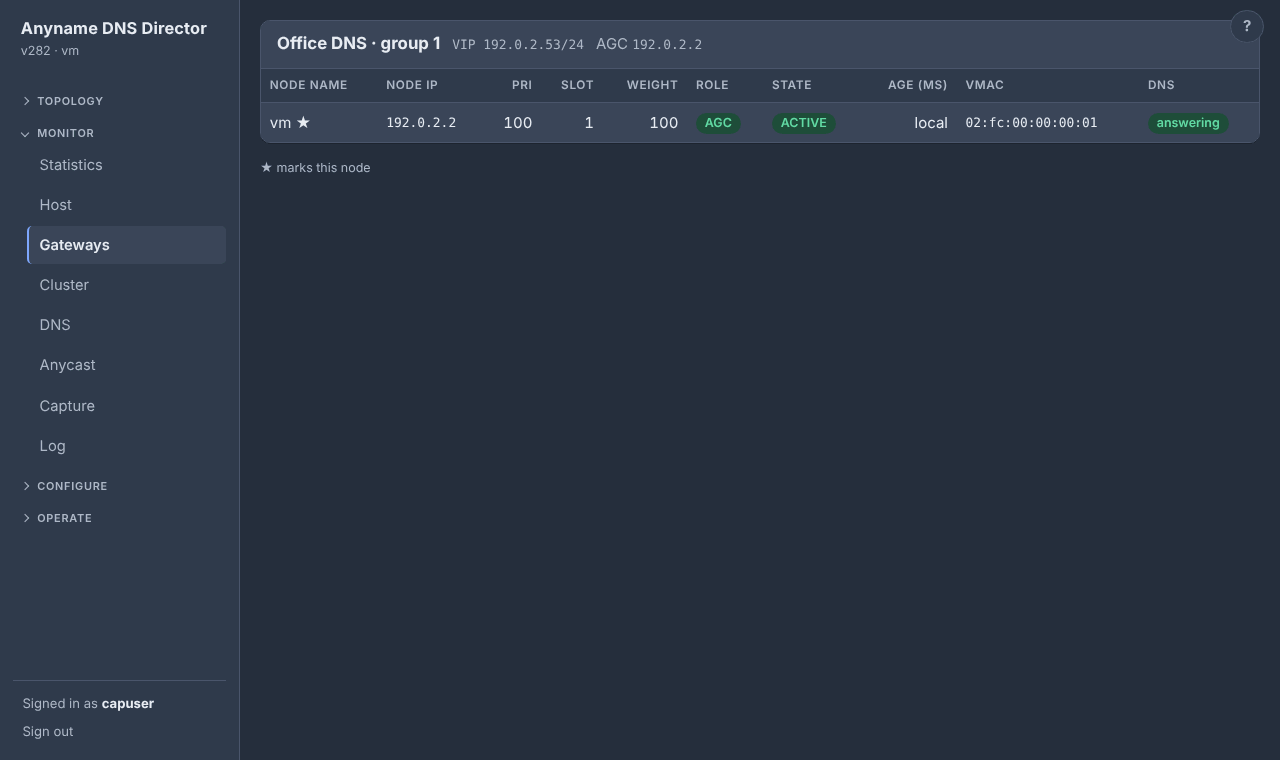
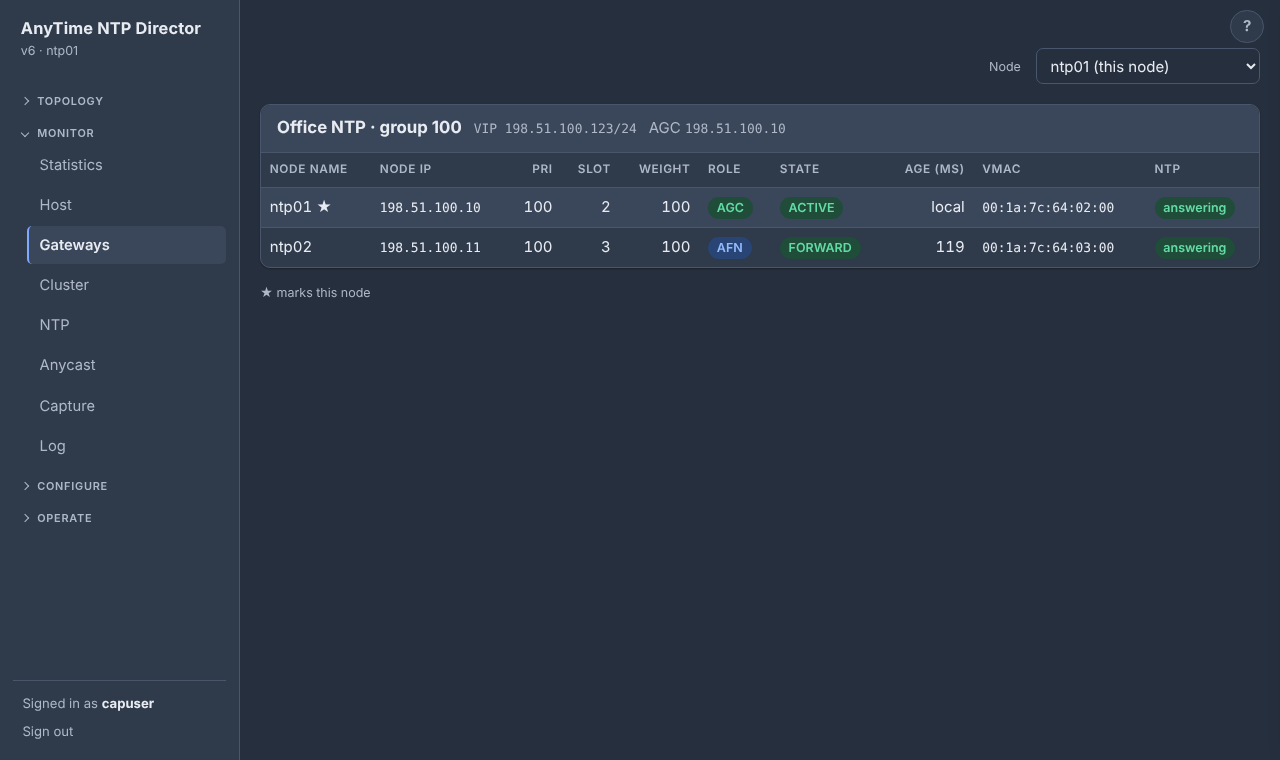
see changelog for release info

diff --git a/source/webui/help.js b/source/webui/help.js
@@ -481,14 +481,14 @@ const NTPDIR_HELP = {
       ["h", "Every node"],
       "Choose **Cluster** in the Node menu. **Capture on all nodes** runs the same capture on every node at the same moment for 5, 10, 30 or 60 seconds, then **Download .tgz** gives one `.pcap` per node (this node's is marked `-this-node`), a `summary.txt`, and an `errors.txt` naming any node that could not capture and why. Each node keeps its newest packets (about 4 MB). This does not touch what anyone has on a node's own Capture page. It is the way to see whether what one node sent is what another received.",
       ["h", "Filter"],
-      "The filter is a small version of the tcpdump language, applied on the node before a packet is kept: `host 10.0.0.5`, `src host`, `dst host`, `net 10.0.0.0/24`, `port 123`, `src port`, `dst port`, `portrange 50-60`, `tcp`, `udp`, `icmp`, `icmp6`, `arp`, `ip`, `ip6`, `ntp` (port 123), `ether host 00:1a:7c:01:02:00` (also `src`, `dst`), joined with `and`, `or`, `not` and brackets. A protocol before host, net or port narrows it (`tcp port 53`). A mistake is reported when you press Start. Names are not looked up: give addresses. An empty filter keeps everything, which on a busy NTP relay fills the buffer in moments, so filter.",
+      "The filter is a small version of the tcpdump language, applied on the node before a packet is kept: `host 10.0.0.5`, `src host`, `dst host`, `net 10.0.0.0/24`, `port 123`, `src port`, `dst port`, `portrange 50-60`, `tcp`, `udp`, `icmp`, `icmp6`, `arp`, `ip`, `ip6`, `ntp` (port 123), `ether host 00:1a:7c:01:02:00` (also `src`, `dst`), joined with `and`, `or`, `not` and brackets. A protocol before host, net or port narrows it (`tcp port 123`). A mistake is reported when you press Start. Names are not looked up: give addresses. An empty filter keeps everything, which on a busy NTP relay fills the buffer in moments, so filter.",
       ["h", "Fields"],
       ["fields", [
         ["Interface", "The interface to listen on. In Cluster mode every node must have an interface of that name (the list is this node's); a node without it is reported in the result."],
         ["Filter", "Optional, up to 300 characters, as above. Press Enter to start."],
         ["How long", "Cluster mode only: 5, 10 (default), 30 or 60 seconds."],
       ]],
-      ["cli", "ntpdir --capture-interfaces\nntpdir --capture eth0 --capture-seconds 10 --capture-filter \"host 10.20.0.205 and port 53\"\nntpdir --capture eth0 --capture-file /tmp/eth0.pcap\nntpdir --capture eth0 --capture-seconds 30 --all-nodes --capture-file /tmp/cluster.tgz\n(without --capture-file the packets are printed, the first 500; with --all-nodes a file is needed)"],
+      ["cli", "ntpdir --capture-interfaces\nntpdir --capture eth0 --capture-seconds 10 --capture-filter \"host 10.20.0.205 and port 123\"\nntpdir --capture eth0 --capture-file /tmp/eth0.pcap\nntpdir --capture eth0 --capture-seconds 30 --all-nodes --capture-file /tmp/cluster.tgz\n(without --capture-file the packets are printed, the first 500; with --all-nodes a file is needed)"],
     ],
   },
   log: {

diff --git a/source/webui/app.js b/source/webui/app.js
@@ -1556,7 +1556,7 @@
 
     function anycastForm(g, edit) {
       form(edit ? "Edit anycast address" : "Add anycast address", [
-        { k: "addr", l: "Anycast address", v: edit || "", ph: "203.0.113.53 or 2001:db8:53::1",
+        { k: "addr", l: "Anycast address", v: edit || "", ph: "203.0.113.123 or 2001:db8:123::1",
           hint: "Any subnet. Held on every node while an NTP server answers. Other gateways may carry it too." },
       ], (v) => {
         const a = (v.addr || "").trim().replace(/\/(32|128)$/, "").toLowerCase();
@@ -3416,7 +3416,7 @@
         cursor = 0; shown = 0; last = null; running = false; job = null; ifs = null;
         status = h("div", { "aria-live": "polite" });
         iface = ifaceSelect();
-        filter = h("input", { type: "text", class: "grow", placeholder: "Filter, e.g. host 10.20.0.205 and port 53", "aria-label": "Capture filter", spellcheck: "false", autocomplete: "off", maxlength: "300",
+        filter = h("input", { type: "text", class: "grow", placeholder: "Filter, e.g. host 10.20.0.205 and port 123", "aria-label": "Capture filter", spellcheck: "false", autocomplete: "off", maxlength: "300",
           onkeydown: (e) => { if (e.key === "Enter") { e.preventDefault(); (cluster() ? goAll : start)(); } } });
         if (cluster()) {
           durSel = h("select", { "aria-label": "How long" }, [["5", "5 seconds"], ["10", "10 seconds"], ["30", "30 seconds"], ["60", "60 seconds"]].map(([v, t]) => h("option", { value: v }, t)));

diff --git a/source/cli.go b/source/cli.go
@@ -306,9 +306,9 @@ func (f *cliFlags) run(sock string) bool {
 		}
 		decode(op(sock, "cluster.token", nil), &r)
 		fmt.Printf("Join code (single use, valid until %s):\n\n%s\n\nOn the new node:  ntpdir --cluster-join '%s'\n", lt(r.Expires), r.Code, r.Code)
-		fmt.Println("\nThe new node's shared settings (DNS, VIPs, keys) will be replaced by this cluster's; its interface, priority and weight stay its own.")
+		fmt.Println("\nThe new node's shared settings (NTP block, VIPs, keys) will be replaced by this cluster's; its interface, priority and weight stay its own.")
 	case *f.clusterJoin != "":
-		askYes("Join this node to the cluster? Its shared settings (DNS block, VIPs, keys, timers) will be replaced by the cluster's; a snapshot of the current config is saved first.", *f.yes)
+		askYes("Join this node to the cluster? Its shared settings (NTP block, VIPs, keys, timers) will be replaced by the cluster's; a snapshot of the current config is saved first.", *f.yes)
 		var v ClusterView
 		decode(op(sock, "cluster.join", map[string]any{"code": *f.clusterJoin}), &v)
 		fmt.Println("Joined.")

diff --git a/README.md b/README.md
@@ -102,7 +102,11 @@ Every gateway serves NTP on its VIP; there is no switch for it. Give the gateway
 
 The NTP page (Monitor ▸ NTP, or `ntpdir --show-ntp`) shows the ranking, health, round trip, offset, stratum and counters of every pool.
 
+![Monitor ▸ NTP: each gateway's upstream servers, ranked, with state, stratum, offset, root distance and round trip](snaps/ntp.png)
+
 In the GUI, the settings are under Configure ▸ NTP relay, on four tabs: **Servers**, **Health & balancing**, **Listener** and **Clients**. In the file they are the top-level `ntp` block (shared by the cluster) and, per gateway, an optional `ntp` block inside the group.
+
+![Configure ▸ NTP relay: the shared upstream servers and, on other tabs, health, balancing, listener and client limits](snaps/ntp-relay.png)
 
 **Relay caveat.** The upstream servers see the relay's address for every client, so a server that rate-limits by source address limits all your clients together. Give the relay's address a generous limit on your own servers, or list several servers.
 
@@ -283,7 +287,7 @@ Groups without their own `ntp` block use the top-level one.
 
 A gateway can carry extra addresses of **any subnet** next to its shared address (`extra_vips`). In the GUI, right-click the gateway circle ▸ *Add anycast address*; each address becomes a pill beside the circle with its own menu. On the command line, use `--canvas-add anycast --group 1 --address 203.0.113.123`, `--canvas-del anycast …`, or `--canvas-set gateway --group 1 --anycast A,B` to replace the whole list.
 
-Anycast addresses are not checked against the interface and do not take part in the election. **Every** node running the gateway puts them on `lo` and answers NTP on them, with the same servers and failover as the shared address, on `listen_port`. They are shared across the cluster and need DNS servers on the gateway.
+Anycast addresses are not checked against the interface and do not take part in the election. **Every** node running the gateway puts them on `lo` and answers NTP on them, with the same servers and failover as the shared address, on `listen_port`. They are shared across the cluster and need NTP servers on the gateway.
 
 An address is held only while this node can answer on it: the gateway is running and not paused, the listener is up, and at least one NTP server is healthy. Otherwise it is taken off `lo`, so the route disappears from your routing daemon. It is added with a 10-second lifetime that AnyTime renews every 3 seconds, so if AnyTime crashes or hangs, the kernel removes the address by itself within about 10 seconds instead of leaving a route that nothing answers.
 
@@ -809,7 +813,7 @@ A node that is not clustered, is the only member, or serves nothing is never hel
 
 After building, the node does not restart until another member has been serving each of its gateways for at least 15 seconds (the same check that gates a rolling update; `--update-apply --yes` skips it). A stopping node says so: a controller announces that it is leaving and the best remaining node becomes controller at once, and a forwarder tells the controller, which covers its virtual MAC immediately instead of a hold time later.
 
-Whoever covers a MAC also announces it on the wire (an ARP probe or IPv6 DAD solicitation from that MAC, which changes no host's neighbour cache). A switch or a Linux bridge keeps a MAC on its old port until something transmits from the new one, and clients cached on that MAC would lose their answers for about 3 seconds. A returning node announces its MAC once it can answer, and the controller hands the MAC back a moment later. Forwarders, and a controller for the MACs it covers, repeat the announcement every 2 seconds, so a switch entry that went stale is corrected in seconds. On start-up a gateway joins only after its DNS pool answers.
+Whoever covers a MAC also announces it on the wire (an ARP probe or IPv6 DAD solicitation from that MAC, which changes no host's neighbour cache). A switch or a Linux bridge keeps a MAC on its old port until something transmits from the new one, and clients cached on that MAC would lose their answers for about 3 seconds. A returning node announces its MAC once it can answer, and the controller hands the MAC back a moment later. Forwarders, and a controller for the MACs it covers, repeat the announcement every 2 seconds, so a switch entry that went stale is corrected in seconds. On start-up a gateway joins only after its NTP pool answers.
 
 Measured with two real nodes in network namespaces on a bridge and a client sending NTP requests to the VIP every 100 ms, pinned to the restarting node's MAC: restarting the controller or a forwarder caused no failed requests.
 

diff --git a/docs/CHANGELOG.md b/docs/CHANGELOG.md
@@ -1,5 +1,24 @@
 # Changelog
 
+## [v6] - 2026-10-12 — README and screenshots refreshed for NTP
+
+### Changed
+- All 18 screenshots in `snaps/` regenerated from a live two-node NTP cluster (anycast, capture, cluster, gateway-stats, gateways, history, host, log, login, node, ntp-relay, ntp, statistics, topology-menu, topology, upgrade, users, web-certificate).
+- README gained two images: `snaps/ntp.png` (Monitor ▸ NTP) and `snaps/ntp-relay.png` (Configure ▸ NTP relay).
+
+### Fixed
+- Leftover DNS wording: the cluster-join prompts in `cli.go` ("NTP block" not "DNS block"), two README sentences ("NTP servers", "NTP pool"), the capture filter and anycast address placeholders in `app.js`, and the capture examples in `help.js` (`port 123` not `port 53`).
+
+### Verified
+- Screenshots taken in Chromium (dark, 1280x760) against a two-node cluster with stub NTP servers, generated client traffic, real PAM users and a real update push.
+- gofmt, build, vet, `go test -race -count=1`, cross-compile amd64/arm64/arm/386/riscv64, `CGO_ENABLED=0` vet and test, `node --check` on `app.js` and `help.js`.
+
+### Not verified
+- The screenshots were taken from a build with the `cli.go` fix but before the final `app.js`/`help.js` placeholder edits.
+- The Upgrade shot's newest event is a "cancelled" entry from a mistaken demo command; History shows setup BGP entries; the NTP page's right-hand columns clip at 1280px.
+- The first `go test -race` run failed once (failing test not captured); the rerun passed. Timing-sensitive tests have been flaky before (`TestLogServerFlips`, `TestSpreadSharesRealQueries`).
+- dnsdir on a real host.
+
 ## [v5] - 2026-10-12 — Fix: pausing a server could pause the whole node; controller mark on a paused node
 
 ### Fixed
